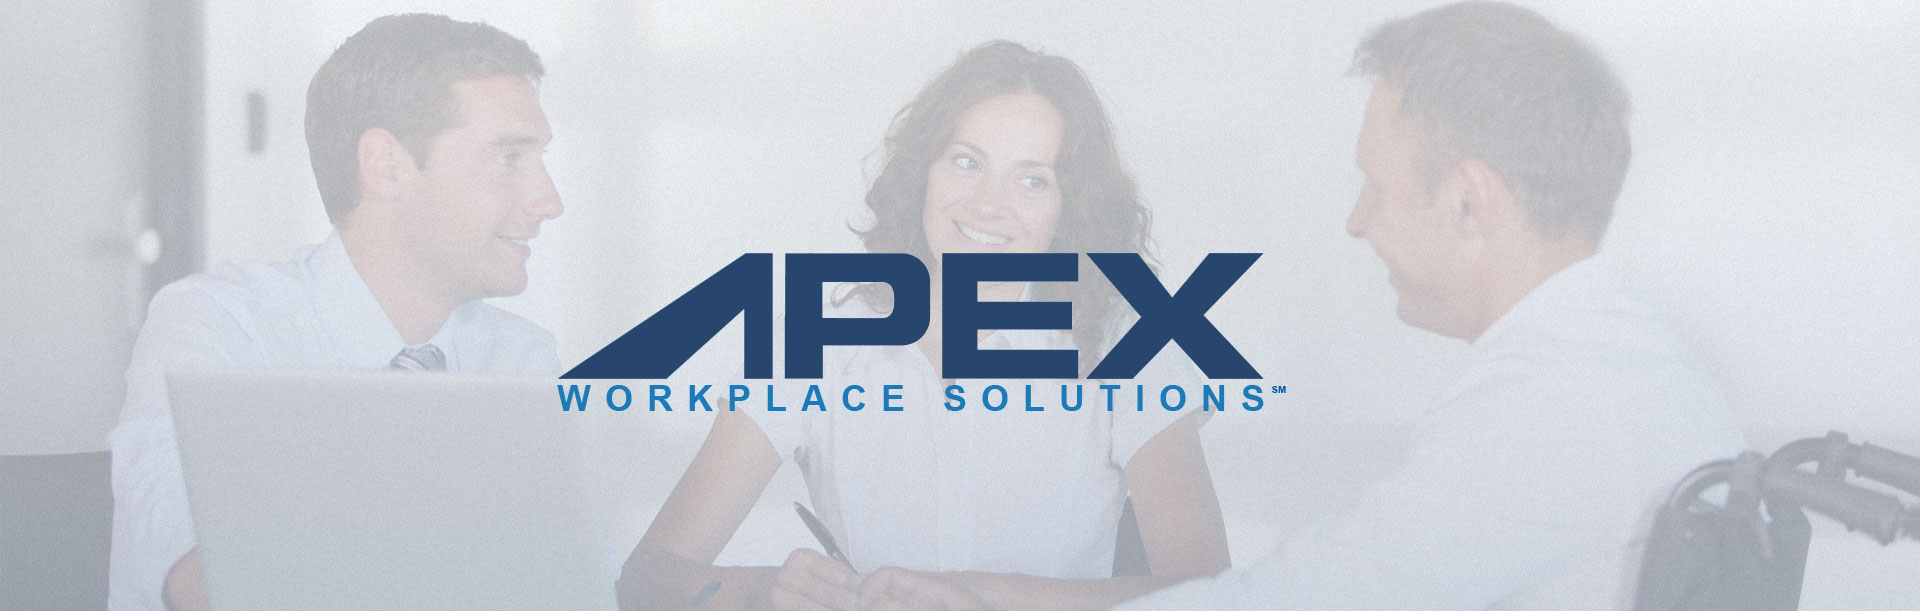
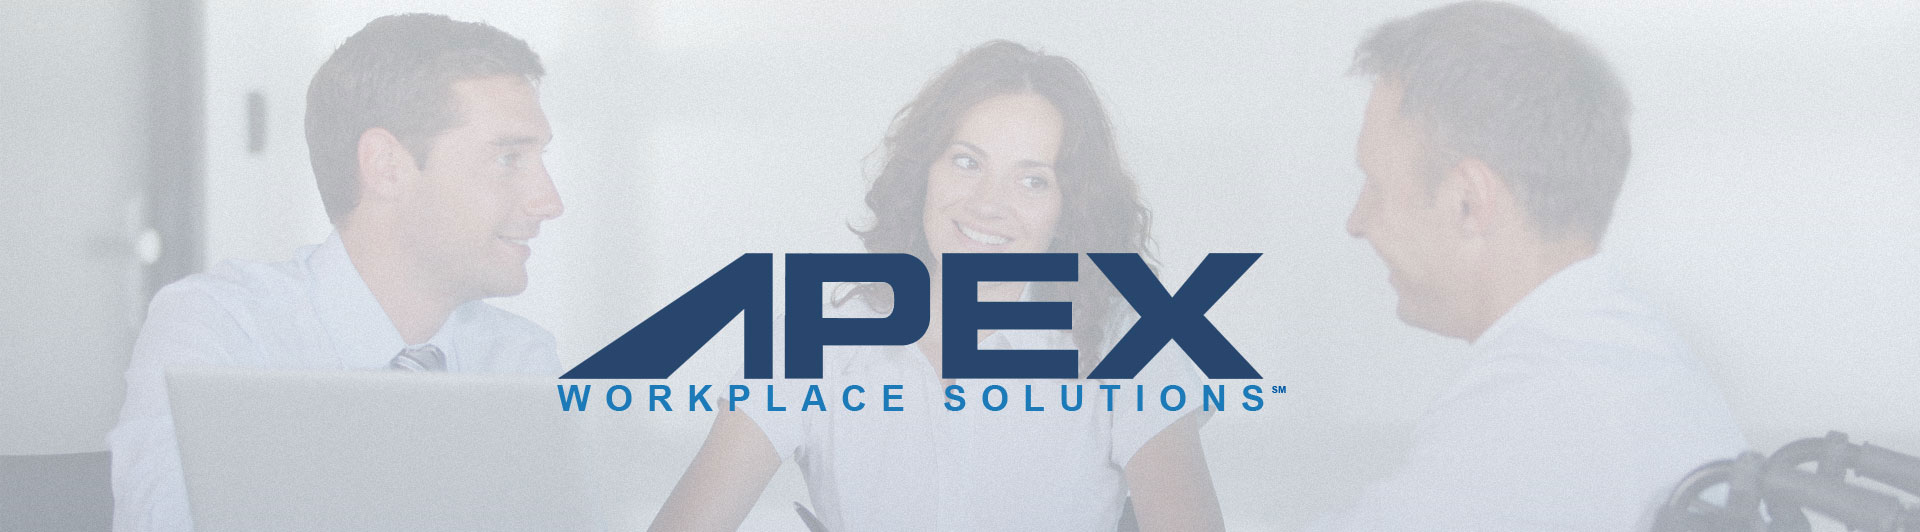
thumbnails added

diff --git a/michaelcattell/assets/css/mymagic.min.css b/michaelcattell/assets/css/mymagic.min.css
@@ -1,1 +1,1 @@
-body{background:#fff;font-family:jubilat-light,Arial,sans-serif;color:#747474}#sub{background:#F5F6F6}a{color:#16A085;font-weight:400}a:hover{color:#097159;font-weight:400;transition:background .3s ease-in-out;text-decoration:underline}ul li{list-style:none outside none}.techincals{}.techincals ul{padding:0;margin:0}.techincals ul li{padding:3px 0;color:#fff}.techincals ul li:nth-child(1){padding:0;color:#fff}.techincals ul li a{color:#fff}.techincals ul li a:hover{color:#f2f2f2}.resume{}.resume ul{padding:0;margin:0}.resume ul li{padding:6px 0;color:#fff}.resume ul li:nth-last-child{padding:60px 0 0;color:#fff}.resume ul li a{color:#fff;font-weight:700}.resume ul li a:hover{color:#f2f2f2}.listofdoanddont{}.listofdoanddont a{color:#fff;font-weight:400}.listofdoanddont a:hover{color:#f2f2f2}.resumegreen{background:#16A085;padding:10px}.cheerfulgreen{background:#0D604F;padding:10px;font-size:18px}.visionarygreen{background:#0F705D;padding:10px;font-size:18px}.joyfulgreen{background:#11806A;padding:10px;font-size:18px}.greenbackground{background:#1ABC9C;padding:0}.lightgraybgstyle{background:#f8f8f8}.darkgreen{background:#16A085}.darkblack{background:#101010}.firstfix{padding-left:0}.content{background-color:#fefefe;padding-top:60px;padding-bottom:0;position:relative}.contentnobg{padding-top:60px;padding-bottom:0;position:relative}.contentnopad{background-color:#fefefe;padding-top:0;padding-bottom:0;position:relative}.contentinternalpad{padding:40px 0 20px}.contentinternalpadeven{padding:40px 0}.normalcontent{padding:0 10px}.content20{padding:20px 0}.content10all{padding:10px}.content510{padding:5px 10px}.bordertop{border-top:1px solid #d6d6d6}.height5{height:5px;clear:both}.height10{height:10px;clear:both}.height15{height:15px;clear:both}.height20{height:20px;clear:both}.info-image{display:block;height:315px;max-height:315px;overflow:hidden}.button{border-radius:4px;display:inline-block;cursor:pointer;font-weight:400;text-align:center;width:100%}button,.button{border-width:0}.button:hover{transition:background .3s ease-in-out;text-decoration:none}a.bigwhite{background-color:#fff;border:0;color:#666;font-size:30px;line-height:30px;margin:18px 0;padding:18px 30px;width:60%}a.bigwhite:hover{background-color:#333}a.bigblue{background-color:#16A085;border:0;color:#FFF;font-size:26px;line-height:20px;margin:0;padding:14px 10px}a.bigblue:hover{background-color:#12836C}a#bigred{background-color:#DA4F49;border-color:0;color:#FFF;font-size:26px;line-height:20px;margin:18px 0;padding:14px 12px}.bigred{background-color:#DA4F49;border-color:0;color:#FFF;font-size:26px;line-height:20px;margin:18px 0;padding:14px 12px}.bigred:hover{background-color:#c0392b}a.purchaseLink{}.purchase{}a#purchaseLink{}#purchase{}#button{border-radius:4px;display:inline-block;cursor:pointer;font-weight:400;text-align:center;width:100%}#button:hover{transition:background .3s ease-in-out;text-decoration:none}#home{background:url(../images/home4.jpg) 50% 70% no-repeat fixed;height:450px;margin:0 auto;width:100%;max-width:1920px;position:relative}#about{background:url(../images/about_4.jpg) 50% 150% no-repeat fixed;height:300px;margin:0 auto;width:100%;max-width:1920px;position:relative}@font-face{font-family:"open sans";src:url( ../fonts/OpenSans-Regular.ttf );src:local("open sans"),url( ../fonts/OpenSans-Regular.ttf) format("truetype")}@font-face{font-family:jubilat-light;src:url( ../fonts/jubilat-light-webfont.ttf );src:local("jubilat-light"),url( ../fonts/jubilat-light-webfont.ttf) format("truetype")}@font-face{font-family:edmondsans;src:url( ../fonts/Edmondsans-Regular.otf );src:local("edmondsans"),url( ../fonts/Edmondsans-Regular.otf) format("truetype")}h1,h2,h3,h4,h5{font-family:edmondsans;font-weight:400;color:#4C4E54}h1.mainh1{font-size:66px;position:absolute;top:180px;color:#fff}h1.title{font-size:46px;margin:0}h2{margin-bottom:1px}h2.standardh2{font-size:36px}h2.standardh2small{font-size:28px}h3.standardh3{font-size:32px}h4.standardh4{font-size:26px}p.date{color:#999;font-size:11px;font-style:italic;margin:0}p.intro{font-size:19px}p.lookhere{color:#fff;text-align:center;font-family:edmondsans;font-size:30px;padding:0;margin:0}p.smallpara{color:#999;font-size:14px;padding:0;margin:0}span.headline a{font-size:30px;color:#16A085}span.headline a:hover{color:#1B5378;font-weight:300;transition:background .3s ease-in-out;text-decoration:underline}.darktxt{color:#333}.darkgray{color:#f2f2f2}.white{color:#fff}.green{color:#16A085}.box{float:left;margin:10px 0;width:100%;position:relative;transition:background .3s ease-out;max-height:300px;overflow:hidden}.box p.plus{color:#eee;font-size:18px;line-height:auto;padding:0;opacity:0;text-align:left;position:absolute;top:5%;left:5%}.box p.plus a{color:#fff}.box img{opacity:1;width:100%;display:block;transition:opacity .4s ease-in-out}.box:hover img{opacity:.5}.box:hover p{opacity:1;transition:opacity .5s ease-in-out}.box:nth-child(1):hover{background:#16A085}.animated{-webkit-animation-fill-mode:both;-moz-animation-fill-mode:both;-ms-animation-fill-mode:both;-o-animation-fill-mode:both;animation-fill-mode:both;-webkit-animation-duration:1.3s;-moz-animation-duration:1.3s;-ms-animation-duration:1.3s;-o-animation-duration:1.3s;animation-duration:1.3s}.animated.hinge{-webkit-animation-duration:1.3s;-moz-animation-duration:1.3s;-ms-animation-duration:1.3s;-o-animation-duration:1.3s;animation-duration:1.3s}40%{-webkit-transform:rotate(-10deg)}60%{-webkit-transform:rotate(5deg)}80%{-webkit-transform:rotate(-5deg)}100%{-webkit-transform:rotate(0deg)}}@-moz-keyframes swing{20%{-moz-transform:rotate(15deg)}40%{-moz-transform:rotate(-10deg)}60%{-moz-transform:rotate(5deg)}80%{-moz-transform:rotate(-5deg)}100%{-moz-transform:rotate(0deg)}}@-o-keyframes swing{20%{-o-transform:rotate(15deg)}40%{-o-transform:rotate(-10deg)}60%{-o-transform:rotate(5deg)}80%{-o-transform:rotate(-5deg)}100%{-o-transform:rotate(0deg)}}@keyframes swing{20%{transform:rotate(15deg)}40%{transform:rotate(-10deg)}60%{transform:rotate(5deg)}80%{transform:rotate(-5deg)}100%{transform:rotate(0deg)}}.swing{-webkit-transform-origin:top center;-moz-transform-origin:top center;-o-transform-origin:top center;transform-origin:top center;-webkit-animation-name:swing;-moz-animation-name:swing;-o-animation-name:swing;animation-name:swing}@-webkit-keyframes fadeInLeftBig{0%{opacity:0;-webkit-transform:translateX(-2000px)}100%{opacity:1;-webkit-transform:translateX(0)}}@-moz-keyframes fadeInLeftBig{0%{opacity:0;-moz-transform:translateX(-2000px)}100%{opacity:1;-moz-transform:translateX(0)}}@-o-keyframes fadeInLeftBig{0%{opacity:0;-o-transform:translateX(-2000px)}100%{opacity:1;-o-transform:translateX(0)}}@keyframes fadeInLeftBig{0%{opacity:0;transform:translateX(-2000px)}100%{opacity:1;transform:translateX(0)}}.fadeInLeftBig{-webkit-animation-name:fadeInLeftBig;-moz-animation-name:fadeInLeftBig;-o-animation-name:fadeInLeftBig;animation-name:fadeInLeftBig}@-webkit-keyframes fadeInRightBig{0%{opacity:0;-webkit-transform:translateX(2000px)}100%{opacity:1;-webkit-transform:translateX(0)}}@-moz-keyframes fadeInRightBig{0%{opacity:0;-moz-transform:translateX(2000px)}100%{opacity:1;-moz-transform:translateX(0)}}@-o-keyframes fadeInRightBig{0%{opacity:0;-o-transform:translateX(2000px)}100%{opacity:1;-o-transform:translateX(0)}}@keyframes fadeInRightBig{0%{opacity:0;transform:translateX(2000px)}100%{opacity:1;transform:translateX(0)}}.fadeInRightBig{-webkit-animation-name:fadeInRightBig;-moz-animation-name:fadeInRightBig;-o-animation-name:fadeInRightBig;animation-name:fadeInRightBig}@-moz-keyframes fadeInRight{0%{opacity:0;-moz-transform:translateX(20px)}100%{opacity:1;-moz-transform:translateX(0)}}@-o-keyframes fadeInRight{0%{opacity:0;-o-transform:translateX(20px)}100%{opacity:1;-o-transform:translateX(0)}}@keyframes fadeInRight{0%{opacity:0;transform:translateX(20px)}100%{opacity:1;transform:translateX(0)}}.fadeInRight{-webkit-animation-name:fadeInRight;-moz-animation-name:fadeInRight;-o-animation-name:fadeInRight;animation-name:fadeInRight}@-webkit-keyframes fadeInRight{0%{opacity:0;-webkit-transform:translateX(20px)}100%{opacity:1;-webkit-transform:translateX(0)}}@-webkit-keyframes fadeInLeftBig{0%{opacity:0;-webkit-transform:translateX(-2000px)}100%{opacity:1;-webkit-transform:translateX(0)}}@-moz-keyframes fadeInLeftBig{0%{opacity:0;-moz-transform:translateX(-2000px)}100%{opacity:1;-moz-transform:translateX(0)}}@-o-keyframes fadeInLeftBig{0%{opacity:0;-o-transform:translateX(-2000px)}100%{opacity:1;-o-transform:translateX(0)}}@keyframes fadeInLeftBig{0%{opacity:0;transform:translateX(-2000px)}100%{opacity:1;transform:translateX(0)}}.fadeInLeftBig{-webkit-animation-name:fadeInLeftBig;-moz-animation-name:fadeInLeftBig;-o-animation-name:fadeInLeftBig;animation-name:fadeInLeftBig}.pictureinright.start{-webkit-animation-name:fadeInRight;-moz-animation-name:fadeInRight;-o-animation-name:fadeInRight;animation-name:fadeInRight}@-moz-keyframes pictureinright{0%{opacity:0;-moz-transform:translateX(20px)}100%{opacity:1;-moz-transform:translateX(0)}}@-o-keyframes pictureinright{0%{opacity:0;-o-transform:translateX(20px)}100%{opacity:1;-o-transform:translateX(0)}}@keyframes pictureinright{0%{opacity:0;transform:translateX(20px)}100%{opacity:1;transform:translateX(0)}}#creditfooter{display:none}.workhold{margin:0 0 0 -15px}.booksiread li{transition:all .25s ease-in-out 0s;-moz-transition:all .25s ease-in-out 0s;-webkit-transition:all .25s ease-in-out 0s;-o-transition:all .25s ease-in-out 0s;-ms-transition:all .25s ease-in-out 0s;position:relative}.booksiread li img:first-child{opacity:.8;width:100%;transition:all .2s ease-in-out 0s;-moz-transition:all .2s ease-in-out 0s;-webkit-transition:all .2s ease-in-out 0s;-o-transition:all .2s ease-in-out 0s;-ms-transition:all .2s ease-in-out 0s;display:block}.booksiread li img:last-child{width:1px;height:1px;position:absolute;top:0;left:0}.booksiread li h4{margin-top:10px;margin-bottom:5px}.booksiread li p{line-height:1em;margin-bottom:0}.booksiread li p small{font-size:11px;font-size:1.1rem}.booksiread li:hover img{opacity:1}.row.end [class*=column]+[class*=column]:last-child{float:left}.contact-details ul{margin:0;padding:0;list-style:none}.contact-details ul li{margin:0 0 20px;line-height:28px;padding:0}#contact-form{margin-bottom:0}#contact-form p{margin-bottom:1px}#contact-form input,#contact-form textarea{border:0;-webkit-border-radius:0;-moz-border-radius:0;border-radius:0;-webkit-box-shadow:none;-moz-box-shadow:none;box-shadow:none;background-color:#f2f2f2;color:#666;font-size:16px;height:auto;padding:15px;margin:0;resize:none}#contact-form input{-moz-box-sizing:border-box;border:1px solid #D6D6D6;margin:15px 0;width:100%}#contact-form textarea{width:100%;resize:vertical;-webkit-box-sizing:border-box;-moz-box-sizing:border-box;box-sizing:border-box;border:1px solid #D6D6D6;margin:15px 0}#contact-form .submit{background:#E0E0E0;color:#fff;cursor:pointer;display:inline-block;font-size:18px;font-weight:500;padding:16px 40px;text-align:center;vertical-align:middle;width:auto;margin-top:10px;-webkit-transition:background .1s linear 0s,color .1s linear 0s;-moz-transition:background .1s linear 0s,color .1s linear 0s;-o-transition:background .1s linear 0s,color .1s linear 0s;transition:background .1s linear 0s,color .1s linear 0s}#contact-form .submit:hover{background:#16A085;color:#FFF}@media only screen and (min-width:768px){}@media only screen and (min-width:1280px){}}@media only screen and (min-width:1440px){}@media only screen and (orientation:landscape){}@media only screen and (orientation:portrait){}@media only screen and (max-width:768px){#home{height:300px;background:url(../images/home4.jpg) 20% 80% no-repeat fixed}h1.mainh1{font-size:33px;position:absolute;top:120px}#about{background:url(../images/about_2.jpg) 90% 100% no-repeat fixed;height:220px}.contentnobg{padding-top:60px}}a.orbit-prev,a.orbit-next{opacity:.6}.orbit-slide-number{display:none}a.orbit-prev,a.orbit-next,.orbit-timer{display:none}.orbit-container{background:transparent}.interestbanner{background-color:#cecec1}
+body{background:#fff;font-family:jubilat-light,Arial,sans-serif;color:#747474;font-size:20px}#sub{background:#F5F6F6}a{color:#16A085;font-weight:400}a:hover{color:#097159;font-weight:400;transition:background .3s ease-in-out;text-decoration:underline}ul li{list-style:none outside none}.techincals{}.techincals ul{padding:0;margin:0}.techincals ul li{padding:3px 0;color:#fff}.techincals ul li:nth-child(1){padding:0;color:#fff}.techincals ul li a{color:#fff}.techincals ul li a:hover{color:#f2f2f2}.resume{}.resume ul{padding:0;margin:0}.resume ul li{padding:6px 0;color:#fff}.resume ul li:nth-last-child{padding:60px 0 0;color:#fff}.resume ul li a{color:#fff;font-weight:700}.resume ul li a:hover{color:#f2f2f2}.listofdoanddont{}.listofdoanddont a{color:#fff;font-weight:400}.listofdoanddont a:hover{color:#f2f2f2}.whitebackground{background:#fff}.resumegreen{background:#16A085;padding:10px}.cheerfulgreen{background:#0D604F;padding:10px;font-size:18px}.visionarygreen{background:#0F705D;padding:10px;font-size:18px}.joyfulgreen{background:#11806A;padding:10px;font-size:18px}.greenbackground{background:#1ABC9C;padding:0}.lightgraybgstyle{background:#f8f8f8}.darkgreen{background:#16A085}.darkblack{background:#101010}.firstfix{padding-left:0}.content{background-color:#fefefe;padding-top:60px;padding-bottom:0;position:relative}.contentnobg{padding-top:60px;padding-bottom:0;position:relative}.contentnopad{background-color:#fefefe;padding-top:0;padding-bottom:0;position:relative}.contentinternalpad{padding:40px 0 20px}.contentinternalpadeven{padding:40px 0}.normalcontent{padding:0 10px}.content20{padding:20px 0}.content10all{padding:10px}.content510{padding:5px 10px}.bordertop{border-top:1px solid #d6d6d6}.height5{height:5px;clear:both}.height10{height:10px;clear:both}.height15{height:15px;clear:both}.height20{height:20px;clear:both}.info-image{display:block;height:315px;max-height:315px;overflow:hidden}.button{border-radius:4px;display:inline-block;cursor:pointer;font-weight:400;text-align:center;width:100%}button,.button{border-width:0}.button:hover{transition:background .3s ease-in-out;text-decoration:none}a.bigwhite{background-color:#fff;border:0;color:#666;font-size:30px;line-height:30px;margin:18px 0;padding:18px 30px;width:60%}a.bigwhite:hover{background-color:#333}a.bigblue{background-color:#16A085;border:0;color:#FFF;font-size:26px;line-height:20px;margin:0;padding:14px 10px}a.bigblue:hover{background-color:#12836C}a#bigred{background-color:#DA4F49;border-color:0;color:#FFF;font-size:26px;line-height:20px;margin:18px 0;padding:14px 12px}.bigred{background-color:#DA4F49;border-color:0;color:#FFF;font-size:26px;line-height:20px;margin:18px 0 6px;padding:14px 12px}.bigred:hover{background-color:#c0392b}a.purchaseLink{}.purchase{}a#purchaseLink{}#purchase{}#button{border-radius:4px;display:inline-block;cursor:pointer;font-weight:400;text-align:center;width:100%}#button:hover{transition:background .3s ease-in-out;text-decoration:none}#home{background:url(../images/home4.jpg) 50% 70% no-repeat fixed;height:450px;margin:0 auto;width:100%;max-width:1920px;position:relative}#about{background:url(../images/about_4.jpg) 50% 150% no-repeat fixed;height:300px;margin:0 auto;width:100%;max-width:1920px;position:relative}@font-face{font-family:"open sans";src:url( ../fonts/OpenSans-Regular.ttf );src:local("open sans"),url( ../fonts/OpenSans-Regular.ttf) format("truetype")}@font-face{font-family:jubilat-light;src:url( ../fonts/jubilat-light-webfont.ttf );src:local("jubilat-light"),url( ../fonts/jubilat-light-webfont.ttf) format("truetype")}@font-face{font-family:edmondsans;src:url( ../fonts/Edmondsans-Regular.otf );src:local("edmondsans"),url( ../fonts/Edmondsans-Regular.otf) format("truetype")}h1,h2,h3,h4,h5{font-family:edmondsans;font-weight:400;color:#4C4E54}h1.mainh1{font-size:66px;position:absolute;top:180px;color:#fff}h1.title{font-size:46px;margin:0}h2{margin-bottom:1px}h2.standardh2{font-size:36px}h2.standardh2small{font-size:28px}h3.standardh3{font-size:32px}h4.standardh4{font-size:26px}p.date{color:#999;font-size:11px;font-style:italic;margin:0}p.intro{font-size:19px}p.lookhere{color:#fff;text-align:center;font-family:edmondsans;font-size:30px;padding:0;margin:0}p.smallpara{color:#999;font-size:14px;padding:0;margin:0}span.headline a{font-size:30px;color:#16A085}span.headline a:hover{color:#1B5378;font-weight:300;transition:background .3s ease-in-out;text-decoration:underline}.darktxt{color:#333}.darkgray{color:#f2f2f2}.white{color:#fff}.green{color:#16A085}.box{float:left;margin:10px 0;width:100%;position:relative;transition:background .3s ease-out;max-height:300px;overflow:hidden}.box p.plus{color:#eee;font-size:18px;line-height:auto;padding:0;opacity:0;text-align:left;position:absolute;top:5%;left:5%}.box p.plus a{color:#fff}.box img{opacity:1;width:100%;display:block;transition:opacity .4s ease-in-out}.box:hover img{opacity:.5}.box:hover p{opacity:1;transition:opacity .5s ease-in-out}.box:nth-child(1):hover{background:#16A085}.animated{-webkit-animation-fill-mode:both;-moz-animation-fill-mode:both;-ms-animation-fill-mode:both;-o-animation-fill-mode:both;animation-fill-mode:both;-webkit-animation-duration:1.3s;-moz-animation-duration:1.3s;-ms-animation-duration:1.3s;-o-animation-duration:1.3s;animation-duration:1.3s}.animated.hinge{-webkit-animation-duration:1.3s;-moz-animation-duration:1.3s;-ms-animation-duration:1.3s;-o-animation-duration:1.3s;animation-duration:1.3s}40%{-webkit-transform:rotate(-10deg)}60%{-webkit-transform:rotate(5deg)}80%{-webkit-transform:rotate(-5deg)}100%{-webkit-transform:rotate(0deg)}}@-moz-keyframes swing{20%{-moz-transform:rotate(15deg)}40%{-moz-transform:rotate(-10deg)}60%{-moz-transform:rotate(5deg)}80%{-moz-transform:rotate(-5deg)}100%{-moz-transform:rotate(0deg)}}@-o-keyframes swing{20%{-o-transform:rotate(15deg)}40%{-o-transform:rotate(-10deg)}60%{-o-transform:rotate(5deg)}80%{-o-transform:rotate(-5deg)}100%{-o-transform:rotate(0deg)}}@keyframes swing{20%{transform:rotate(15deg)}40%{transform:rotate(-10deg)}60%{transform:rotate(5deg)}80%{transform:rotate(-5deg)}100%{transform:rotate(0deg)}}.swing{-webkit-transform-origin:top center;-moz-transform-origin:top center;-o-transform-origin:top center;transform-origin:top center;-webkit-animation-name:swing;-moz-animation-name:swing;-o-animation-name:swing;animation-name:swing}@-webkit-keyframes fadeInLeftBig{0%{opacity:0;-webkit-transform:translateX(-2000px)}100%{opacity:1;-webkit-transform:translateX(0)}}@-moz-keyframes fadeInLeftBig{0%{opacity:0;-moz-transform:translateX(-2000px)}100%{opacity:1;-moz-transform:translateX(0)}}@-o-keyframes fadeInLeftBig{0%{opacity:0;-o-transform:translateX(-2000px)}100%{opacity:1;-o-transform:translateX(0)}}@keyframes fadeInLeftBig{0%{opacity:0;transform:translateX(-2000px)}100%{opacity:1;transform:translateX(0)}}.fadeInLeftBig{-webkit-animation-name:fadeInLeftBig;-moz-animation-name:fadeInLeftBig;-o-animation-name:fadeInLeftBig;animation-name:fadeInLeftBig}@-webkit-keyframes fadeInRightBig{0%{opacity:0;-webkit-transform:translateX(2000px)}100%{opacity:1;-webkit-transform:translateX(0)}}@-moz-keyframes fadeInRightBig{0%{opacity:0;-moz-transform:translateX(2000px)}100%{opacity:1;-moz-transform:translateX(0)}}@-o-keyframes fadeInRightBig{0%{opacity:0;-o-transform:translateX(2000px)}100%{opacity:1;-o-transform:translateX(0)}}@keyframes fadeInRightBig{0%{opacity:0;transform:translateX(2000px)}100%{opacity:1;transform:translateX(0)}}.fadeInRightBig{-webkit-animation-name:fadeInRightBig;-moz-animation-name:fadeInRightBig;-o-animation-name:fadeInRightBig;animation-name:fadeInRightBig}@-moz-keyframes fadeInRight{0%{opacity:0;-moz-transform:translateX(20px)}100%{opacity:1;-moz-transform:translateX(0)}}@-o-keyframes fadeInRight{0%{opacity:0;-o-transform:translateX(20px)}100%{opacity:1;-o-transform:translateX(0)}}@keyframes fadeInRight{0%{opacity:0;transform:translateX(20px)}100%{opacity:1;transform:translateX(0)}}.fadeInRight{-webkit-animation-name:fadeInRight;-moz-animation-name:fadeInRight;-o-animation-name:fadeInRight;animation-name:fadeInRight}@-webkit-keyframes fadeInRight{0%{opacity:0;-webkit-transform:translateX(20px)}100%{opacity:1;-webkit-transform:translateX(0)}}@-webkit-keyframes fadeInLeftBig{0%{opacity:0;-webkit-transform:translateX(-2000px)}100%{opacity:1;-webkit-transform:translateX(0)}}@-moz-keyframes fadeInLeftBig{0%{opacity:0;-moz-transform:translateX(-2000px)}100%{opacity:1;-moz-transform:translateX(0)}}@-o-keyframes fadeInLeftBig{0%{opacity:0;-o-transform:translateX(-2000px)}100%{opacity:1;-o-transform:translateX(0)}}@keyframes fadeInLeftBig{0%{opacity:0;transform:translateX(-2000px)}100%{opacity:1;transform:translateX(0)}}.fadeInLeftBig{-webkit-animation-name:fadeInLeftBig;-moz-animation-name:fadeInLeftBig;-o-animation-name:fadeInLeftBig;animation-name:fadeInLeftBig}.pictureinright.start{-webkit-animation-name:fadeInRight;-moz-animation-name:fadeInRight;-o-animation-name:fadeInRight;animation-name:fadeInRight}@-moz-keyframes pictureinright{0%{opacity:0;-moz-transform:translateX(20px)}100%{opacity:1;-moz-transform:translateX(0)}}@-o-keyframes pictureinright{0%{opacity:0;-o-transform:translateX(20px)}100%{opacity:1;-o-transform:translateX(0)}}@keyframes pictureinright{0%{opacity:0;transform:translateX(20px)}100%{opacity:1;transform:translateX(0)}}#creditfooter{display:none}.workhold{margin:0 0 0 -15px}.booksiread li{transition:all .25s ease-in-out 0s;-moz-transition:all .25s ease-in-out 0s;-webkit-transition:all .25s ease-in-out 0s;-o-transition:all .25s ease-in-out 0s;-ms-transition:all .25s ease-in-out 0s;position:relative}.booksiread li img:first-child{opacity:.8;width:100%;transition:all .2s ease-in-out 0s;-moz-transition:all .2s ease-in-out 0s;-webkit-transition:all .2s ease-in-out 0s;-o-transition:all .2s ease-in-out 0s;-ms-transition:all .2s ease-in-out 0s;display:block}.booksiread li img:last-child{width:1px;height:1px;position:absolute;top:0;left:0}.booksiread li h4{margin-top:10px;margin-bottom:5px}.booksiread li p{line-height:1em;margin-bottom:0}.booksiread li p small{font-size:11px;font-size:1.1rem}.booksiread li:hover img{opacity:1}.row.end [class*=column]+[class*=column]:last-child{float:left}.contact-details ul{margin:0;padding:0;list-style:none}.contact-details ul li{margin:0 0 20px;line-height:28px;padding:0}#contact-form{margin-bottom:0}#contact-form p{margin-bottom:1px}#contact-form input,#contact-form textarea{border:0;-webkit-border-radius:0;-moz-border-radius:0;border-radius:0;-webkit-box-shadow:none;-moz-box-shadow:none;box-shadow:none;background-color:#f2f2f2;color:#666;font-size:16px;height:auto;padding:15px;margin:0;resize:none}#contact-form input{-moz-box-sizing:border-box;border:1px solid #D6D6D6;margin:15px 0;width:100%}#contact-form textarea{width:100%;resize:vertical;-webkit-box-sizing:border-box;-moz-box-sizing:border-box;box-sizing:border-box;border:1px solid #D6D6D6;margin:15px 0}#contact-form .submit{background:#E0E0E0;color:#fff;cursor:pointer;display:inline-block;font-size:18px;font-weight:500;padding:16px 40px;text-align:center;vertical-align:middle;width:auto;margin-top:10px;-webkit-transition:background .1s linear 0s,color .1s linear 0s;-moz-transition:background .1s linear 0s,color .1s linear 0s;-o-transition:background .1s linear 0s,color .1s linear 0s;transition:background .1s linear 0s,color .1s linear 0s}#contact-form .submit:hover{background:#16A085;color:#FFF}@media only screen and (max-width:767px){body{font-size:15px}p.intro{font-size:16px}h3.standardh3{font-size:22px}h2.standardh2small{font-size:26px}h2.standardh2{font-size:28px}h1.title{font-size:30px;margin:0}span.headline a{font-size:26px}p.lookhere{font-size:22px}}@media only screen and (min-width:768px){}@media only screen and (min-width:1280px){}@media only screen and (min-width:1440px){}@media only screen and (orientation:landscape){}@media only screen and (orientation:portrait){}@media only screen and (max-width:768px){#home{height:300px;background:url(../images/home4.jpg) 20% 80% no-repeat fixed}h1.mainh1{font-size:33px;position:absolute;top:120px}#about{background:url(../images/about_4.jpg) 90% 100% no-repeat fixed;height:220px}.contentnobg{padding-top:60px}}a.orbit-prev,a.orbit-next{opacity:.6}.orbit-slide-number{display:none}a.orbit-prev,a.orbit-next,.orbit-timer{display:none}.orbit-container{background:transparent}.interestbanner{background-color:#cecec1}

diff --git a/michaelcattell/assets/css/mymagic.css b/michaelcattell/assets/css/mymagic.css
@@ -1,4 +1,4 @@
-body { background: #fff; font-family: jubilat-light, Arial, sans-serif; color: #747474; }
+body { background: #fff; font-family: jubilat-light, Arial, sans-serif; color: #747474; font-size: 20px; }
 	 #sub { background: #F5F6F6; }
 
 a { color: #16A085; font-weight: 400;}
@@ -26,6 +26,7 @@ ul li { list-style: none outside none; }
 .listofdoanddont a { color: #fff; font-weight: normal; }
 .listofdoanddont a:hover { color: #f2f2f2;  }
 
+.whitebackground { background: #fff; }
 .resumegreen { background: #16A085; padding: 10px; }
 .cheerfulgreen { background: #0D604F; padding: 10px; font-size: 18px;} 
 .visionarygreen {  background: #0F705D; padding: 10px; font-size: 18px; }
@@ -67,7 +68,7 @@ a.bigblue { background-color: #16A085; border: 0; color: #FFFFFF;  font-size: 26
 a.bigblue:hover { background-color: #12836C;  }
 
 a#bigred { background-color: #DA4F49;  border-color: 0; color: #FFFFFF; font-size: 26px; line-height: 20px; margin: 18px 0; padding: 14px 12px; }
-.bigred { background-color: #DA4F49;  border-color: 0; color: #FFFFFF; font-size: 26px; line-height: 20px; margin: 18px 0; padding: 14px 12px; }
+.bigred { background-color: #DA4F49;  border-color: 0; color: #FFFFFF; font-size: 26px; line-height: 20px; margin: 18px 0 6px; padding: 14px 12px; }
 .bigred:hover { background-color: #c0392b;  }
 
 
@@ -465,13 +466,26 @@ span.headline a:hover { color: #1B5378; font-weight: 300; transition: background
 #contact-form .submit:hover { background: #16A085; color: #FFFFFF; }
 
 /*media changes and stuff*/
+@media only screen and (max-width: 767px) {
+   body { font-size: 15px; }
+   p.intro { font-size: 16px; }
+
+   h3.standardh3 { font-size: 22px; }
+   h2.standardh2small { font-size: 26px; }
+   h2.standardh2 { font-size: 28px; }
+   h1.title { font-size: 30px; margin: 0; }
+
+   span.headline a { font-size: 26px; }
+
+   p.lookhere { font-size: 22px; }
+
+}
 /* Used to alter styles for screens at least 768px wide. This is where the grid changes. */
-@media only screen and (min-width: 768px) { }
+@media only screen and (min-width: 768px) {
+}
 
 /* Used to alter styles for screens at least 1280px wide. */
 @media only screen and (min-width: 1280px) {
- }
-
 }
 
 /* Used to alter styles for screens at least 1440px wide. */
@@ -479,19 +493,19 @@ span.headline a:hover { color: #1B5378; font-weight: 300; transition: background
 
 /* Apply styles to screens in landscape orientation */
 @media only screen and (orientation: landscape) {
-
- }
+}
 
 /* Apply styles to screens in portrait orientation */
 @media only screen and (orientation: portrait) {  
-
 }
+
+
 
 	/* Anything less than 1024 */
 @media only screen and (max-width: 768px) {
 #home { height: 300px; background: url(../images/home4.jpg) 20%  80% no-repeat fixed; }
 h1.mainh1 { font-size: 33px; position: absolute; top: 120px;  }
-#about { background: url(../images/about_2.jpg) 90% 100% no-repeat fixed; height: 220px;	}
+#about { background: url(../images/about_4.jpg) 90% 100% no-repeat fixed; height: 220px;	}
 .contentnobg { padding-top:60px; }
  }
 
